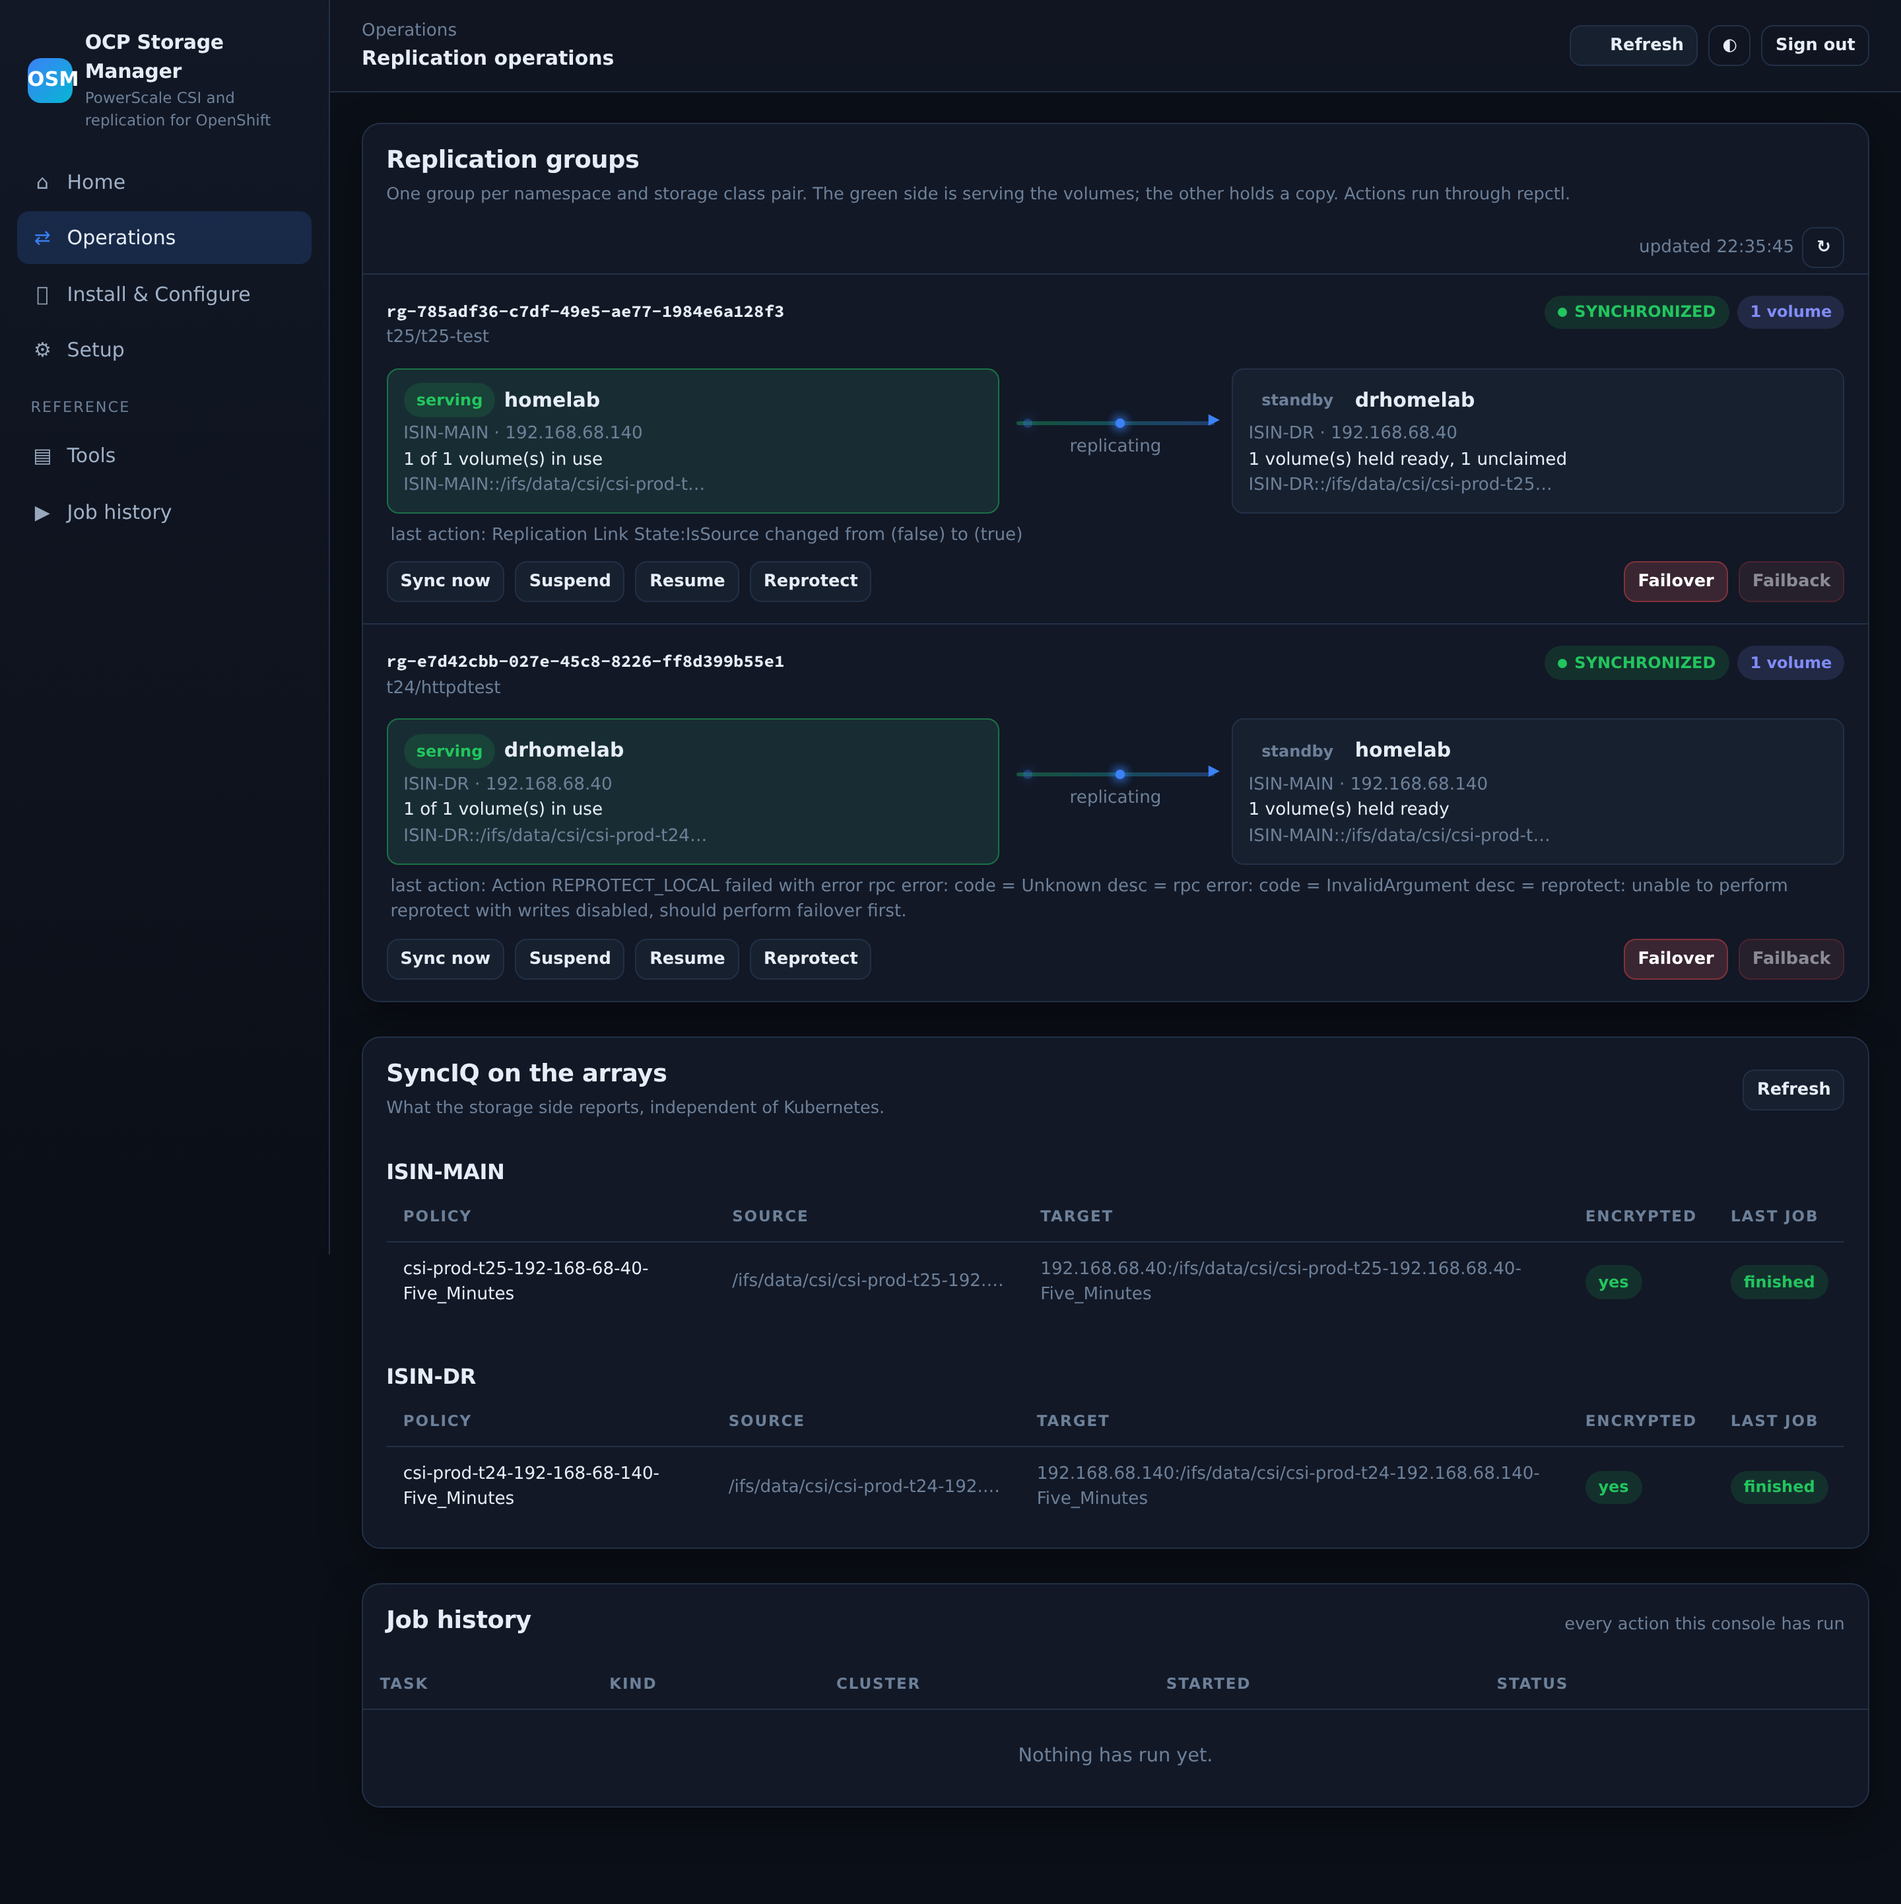
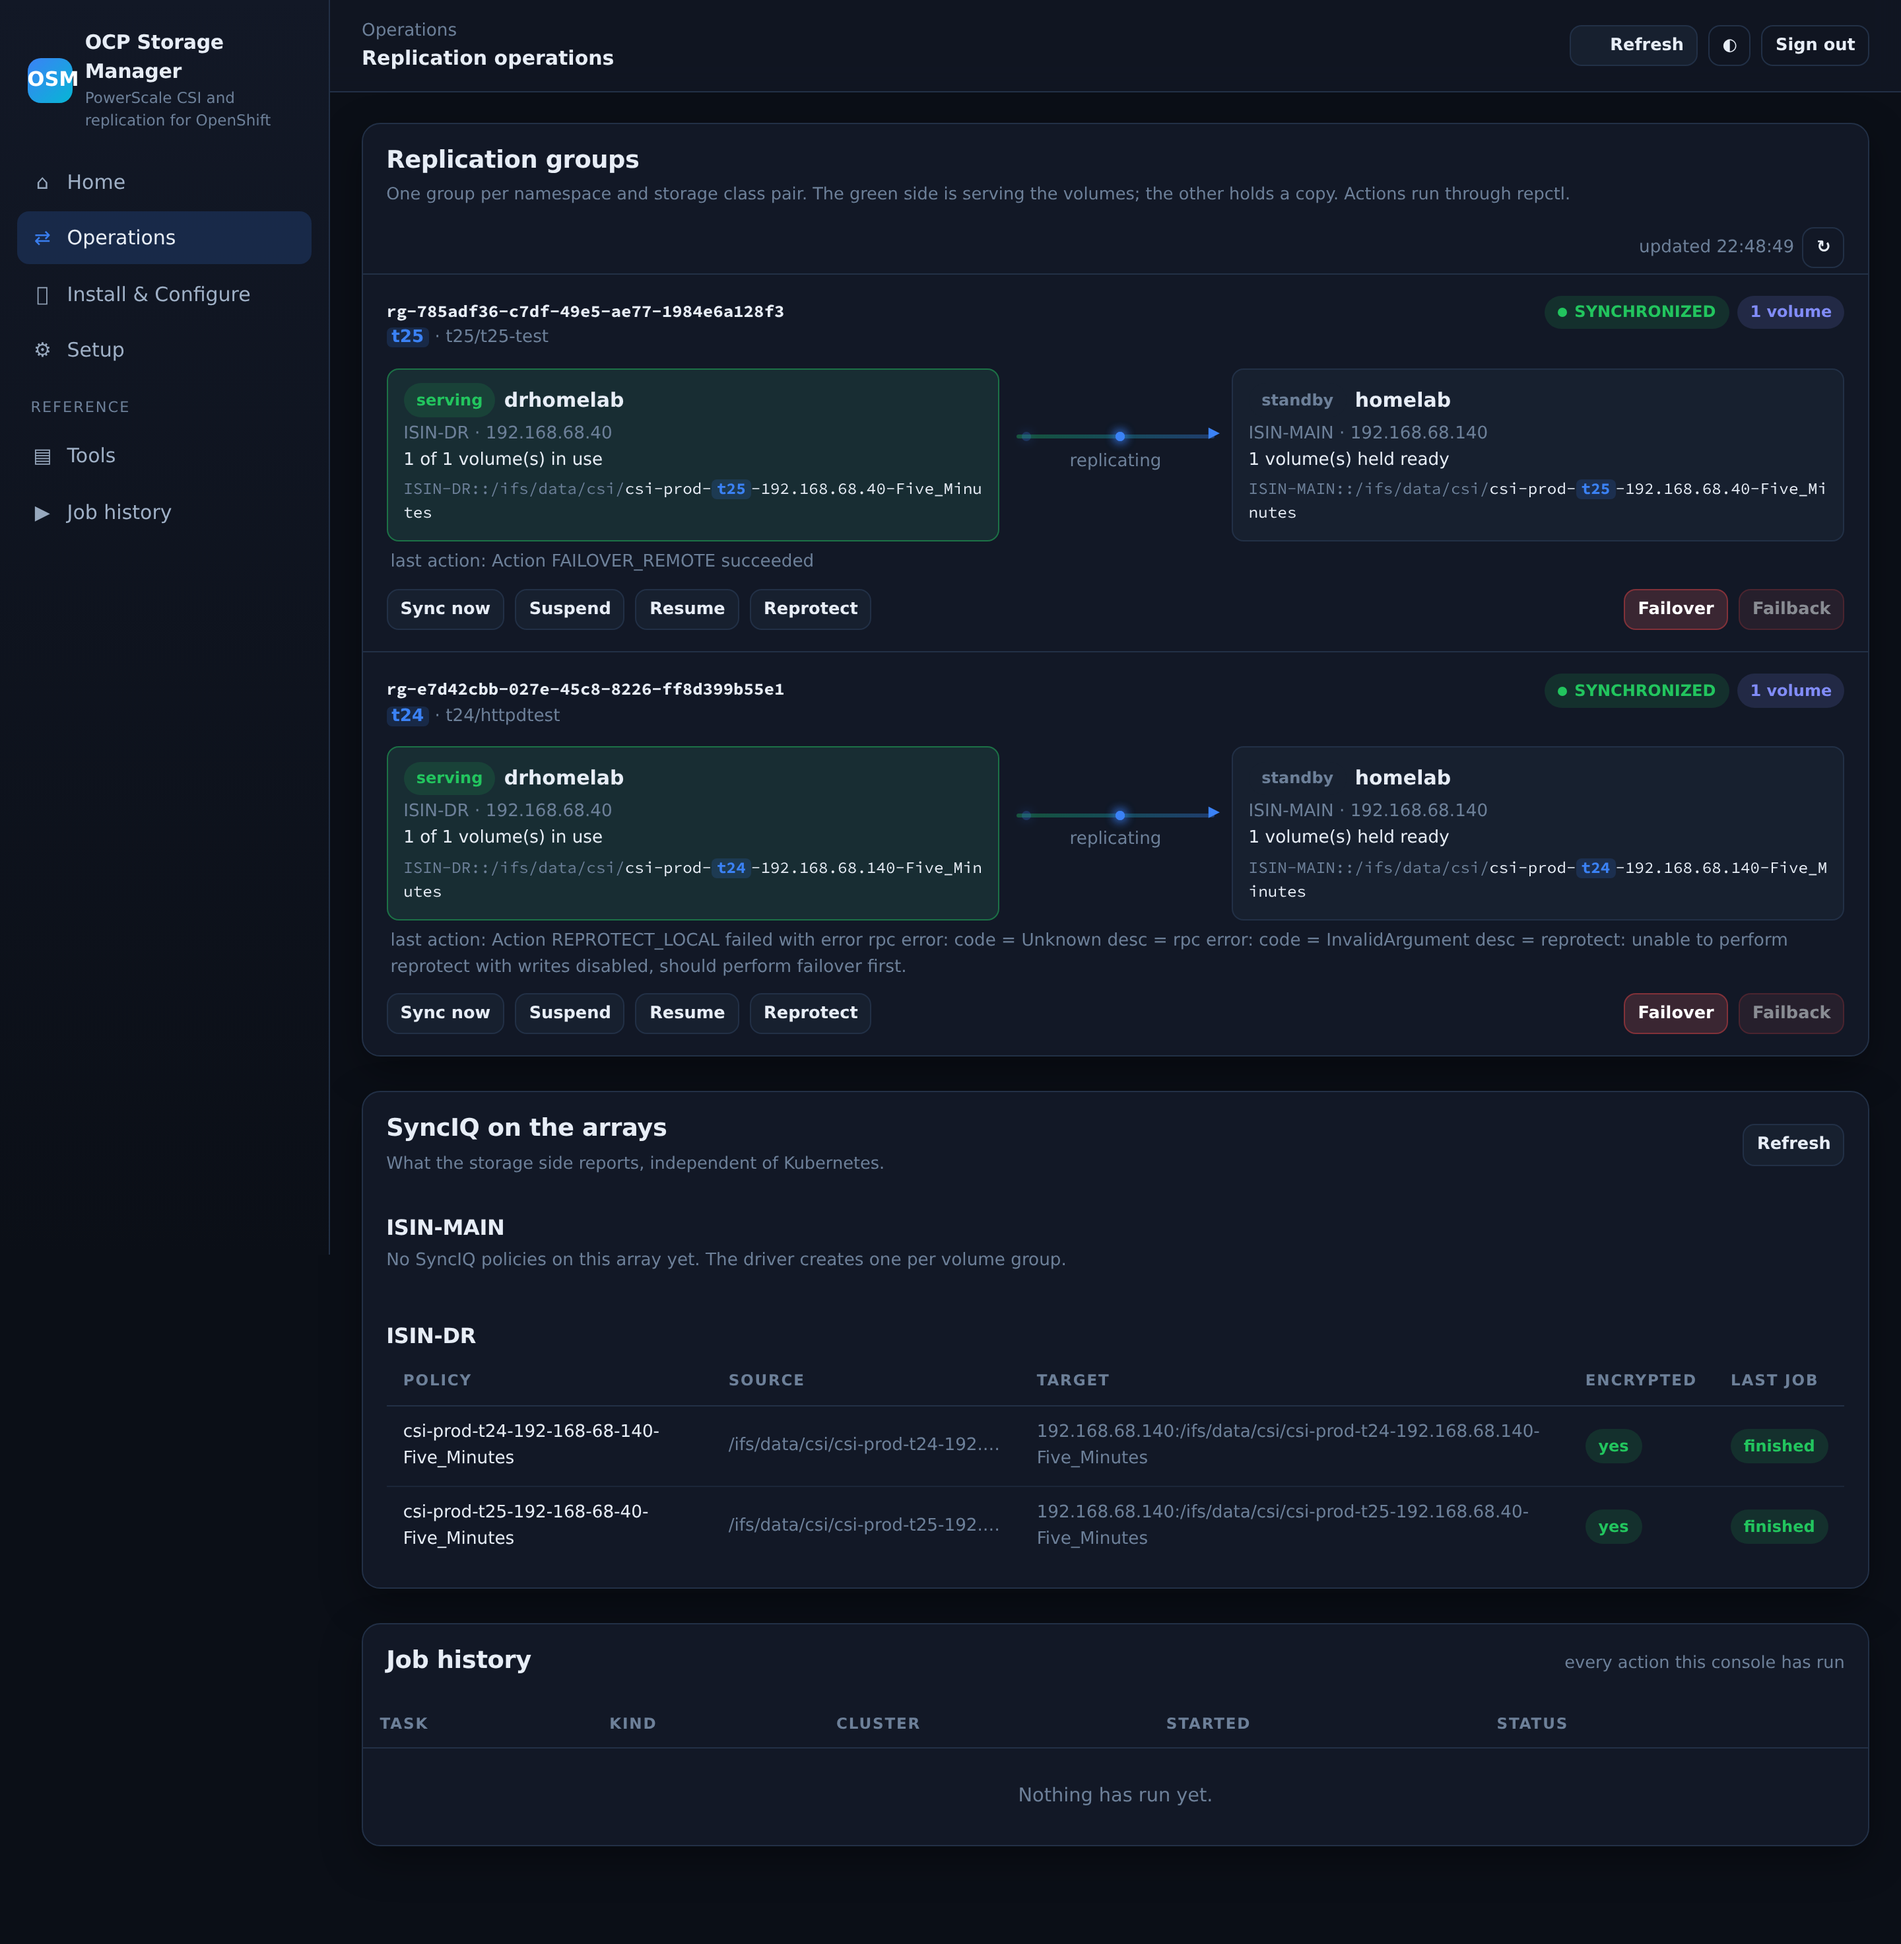
Operations: show the whole protection group path, namespace picked out
The path was truncated, which hid the part that tells you which project a group
belongs to. Each side now prints the full id, splitting the volume group into its
prefix, namespace, peer address and objective, with the namespace highlighted and
repeated beside the claims.

diff --git a/app/app/templates/partials/groups.html b/app/app/templates/partials/groups.html
@@ -4,7 +4,9 @@
   <div class="rg-head">
     <div>
       <strong class="mono">{{ g.name }}</strong>
-      <div class="small muted">{{ g.claims|join(', ') if g.claims else 'no claims yet' }}</div>
+      <div class="small muted">
+        {% if g.namespace %}<span class="ns">{{ g.namespace }}</span> &middot; {% endif %}
+        {{ g.claims|join(', ') if g.claims else 'no claims yet' }}</div>
     </div>
     <div class="rg-head-right">
       {% if g.in_progress %}<span class="pill warn"><span class="spin"></span> action running</span>
@@ -22,7 +24,13 @@
       <div class="rg-side-head"><span class="pill ok">serving</span><strong>{{ src.cluster }}</strong></div>
       <div class="small muted">{{ src.array }}{% if src.array_endpoint %} &middot; {{ src.array_endpoint }}{% endif %}</div>
       <div class="small">{{ src.bound }} of {{ src.volumes }} volume(s) in use</div>
-      <div class="small muted truncate" title="{{ src.path }}">{{ src.path }}</div>
+      {% with pp = src.parts %}
+      <div class="small path" title="{{ src.path }}">
+        <span class="muted">{{ pp.array }}::{{ pp.base }}</span>{% if pp.namespace %}<span
+          >{{ pp.prefix }}-</span><span class="ns" title="namespace">{{ pp.namespace }}</span><span
+          >-{{ pp.address }}-{{ pp.rpo }}</span>{% else %}<span>{{ pp.folder }}</span>{% endif %}
+      </div>
+      {% endwith %}
     </div>
 
     <div class="rg-arrow {{ 'stalled' if not g.healthy else '' }}">
@@ -37,7 +45,13 @@
       <div class="rg-side-head"><span class="pill mute">standby</span><strong>{{ tgt.cluster }}</strong></div>
       <div class="small muted">{{ tgt.array }}{% if tgt.array_endpoint %} &middot; {{ tgt.array_endpoint }}{% endif %}</div>
       <div class="small">{{ tgt.volumes }} volume(s) held ready{% if tgt.available %}, {{ tgt.available }} unclaimed{% endif %}</div>
-      <div class="small muted truncate" title="{{ tgt.path }}">{{ tgt.path }}</div>
+      {% with pp = tgt.parts %}
+      <div class="small path" title="{{ tgt.path }}">
+        <span class="muted">{{ pp.array }}::{{ pp.base }}</span>{% if pp.namespace %}<span
+          >{{ pp.prefix }}-</span><span class="ns" title="namespace">{{ pp.namespace }}</span><span
+          >-{{ pp.address }}-{{ pp.rpo }}</span>{% else %}<span>{{ pp.folder }}</span>{% endif %}
+      </div>
+      {% endwith %}
     </div>
     {% else %}
     <div class="rg-side"><div class="small muted">the other side has not reported yet</div></div>

diff --git a/app/app/static/css/app.css b/app/app/static/css/app.css
@@ -321,3 +321,9 @@ a.step:hover { border-color: var(--brand); text-decoration: none; }
 
 .rg-updated { display: flex; align-items: center; justify-content: flex-end; gap: .4rem;
   padding: .1rem 1.1rem .2rem; }
+
+/* protection group paths, with the namespace picked out */
+.path { font-family: var(--mono); font-size: .76rem; line-height: 1.5; word-break: break-all;
+  margin-top: .25rem; }
+.ns { color: var(--brand); background: color-mix(in srgb, var(--brand) 16%, transparent);
+  border-radius: 4px; padding: 0 .25rem; font-weight: 700; }

diff --git a/app/app/routers/operations.py b/app/app/routers/operations.py
@@ -16,6 +16,37 @@ from ..templating import templates
 router = APIRouter()
 
 
+RPO_SUFFIXES = ("Five_Minutes", "Fifteen_Minutes", "Thirty_Minutes", "One_Hour",
+                "Six_Hours", "Twelve_Hours", "One_Day")
+
+
+def _split_path(protection_group: str, namespaces: list[str]) -> dict:
+    """Break a protection group id into its parts so the page can show them.
+
+    The id looks like ISIN-DR::/ifs/data/csi/csi-prod-t25-192.168.68.40-Five_Minutes/,
+    where the last folder is the volume group: prefix, namespace, the far array's
+    address and the recovery point objective.
+    """
+    array, _, path = protection_group.partition("::")
+    path = path or protection_group
+    folder = path.rstrip("/").rsplit("/", 1)[-1]
+    base = path.rstrip("/")[: -len(folder)] if folder and path.rstrip("/").endswith(folder) else path
+    namespace, prefix, address, rpo = "", "", "", ""
+    for candidate in RPO_SUFFIXES:
+        if folder.endswith("-" + candidate):
+            rpo = candidate
+            break
+    stem = folder[: -(len(rpo) + 1)] if rpo else folder
+    known = [n for n in namespaces if n and f"-{n}-" in f"-{stem}-"]
+    if known:
+        namespace = max(known, key=len)
+        head, _, tail = stem.partition(f"-{namespace}-")
+        prefix, address = head, tail
+    return {"array": array, "base": base, "folder": folder, "prefix": prefix,
+            "namespace": namespace, "address": address, "rpo": rpo,
+            "full": protection_group}
+
+
 def _groups() -> list[dict]:
     """One entry per replication group, with both sides merged into a single view."""
     state = store.load()
@@ -50,6 +81,9 @@ def _groups() -> list[dict]:
     groups = []
     for entry in merged.values():
         sides = entry["sides"]
+        namespaces = sorted({c.split("/")[0] for s in sides for c in s["claims"] if "/" in c})
+        for side in sides:
+            side["parts"] = _split_path(side["path"], namespaces)
         source = next((s for s in sides if s["is_source"]), None)
         target = next((s for s in sides if s is not source), None)
         link = (source or sides[0])["link"]
@@ -62,6 +96,8 @@ def _groups() -> list[dict]:
             "volumes": max((s["volumes"] for s in sides), default=0),
             "claims": sorted({c for s in sides for c in s["claims"]}),
             "last_action": next((s["last_action"] for s in sides if s["last_action"]), ""),
+            "namespace": next((s["parts"]["namespace"] for s in sides
+                               if s["parts"].get("namespace")), ""),
         })
     return groups
 
